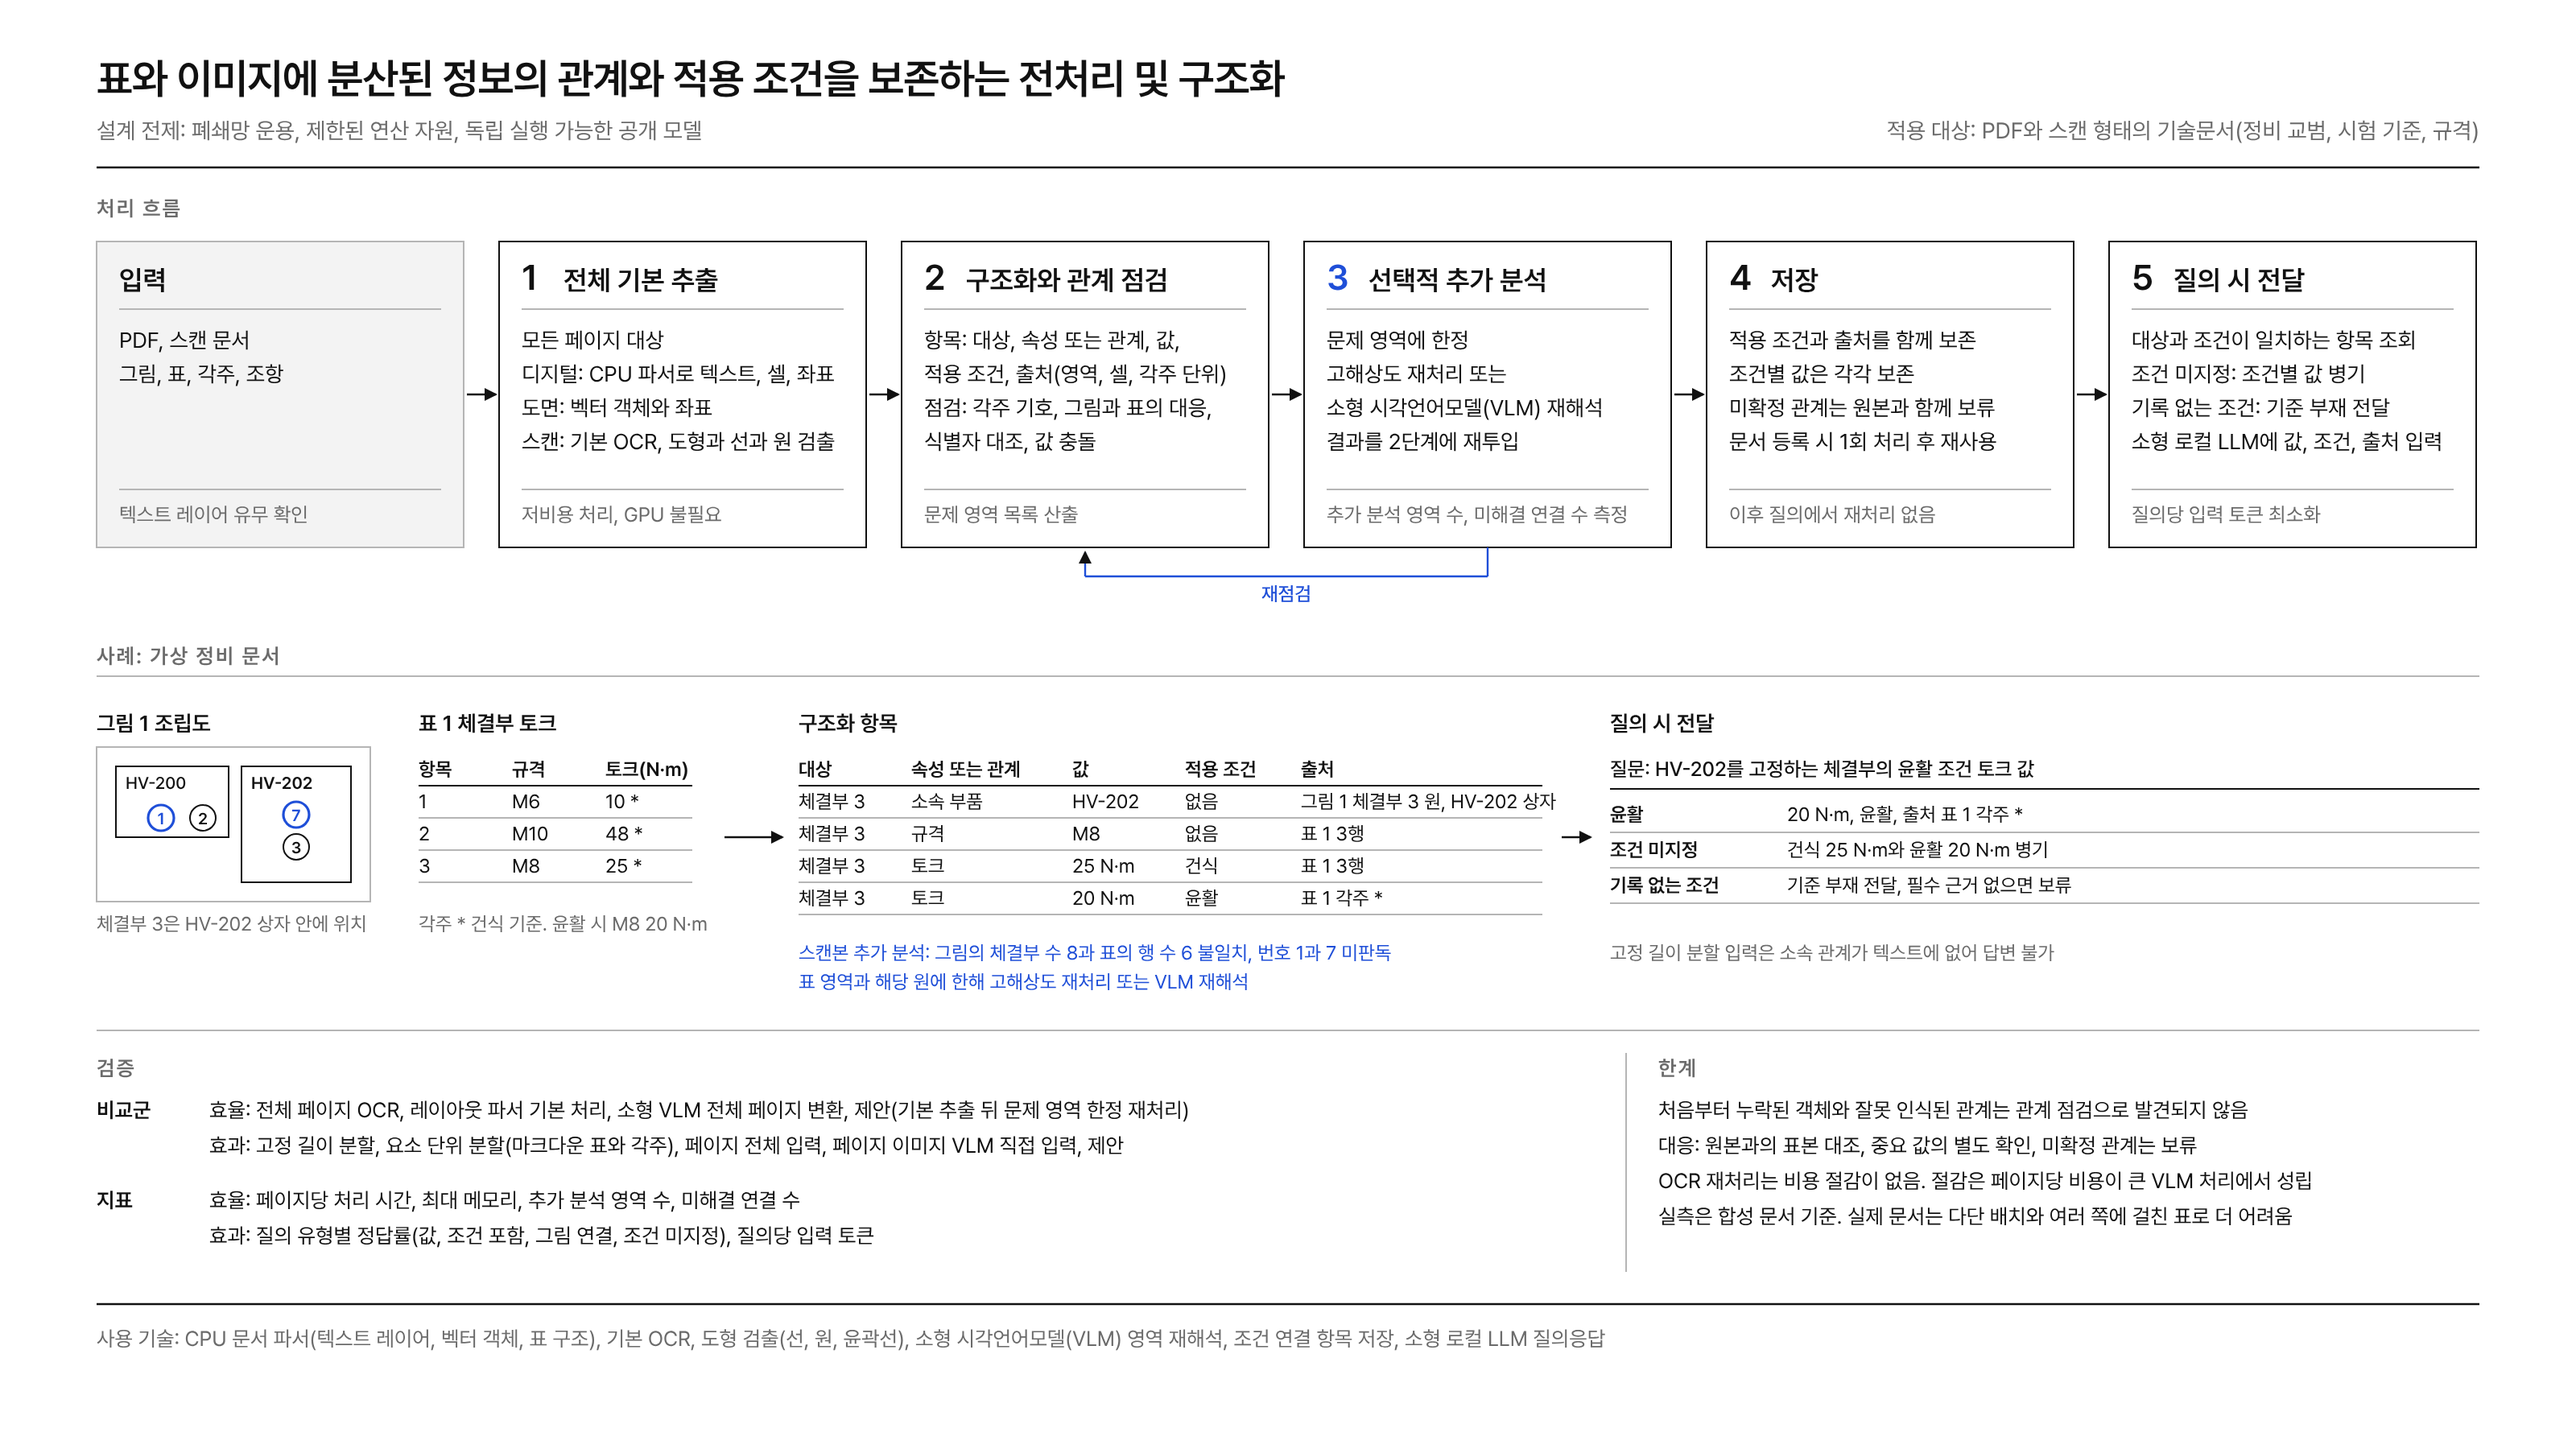
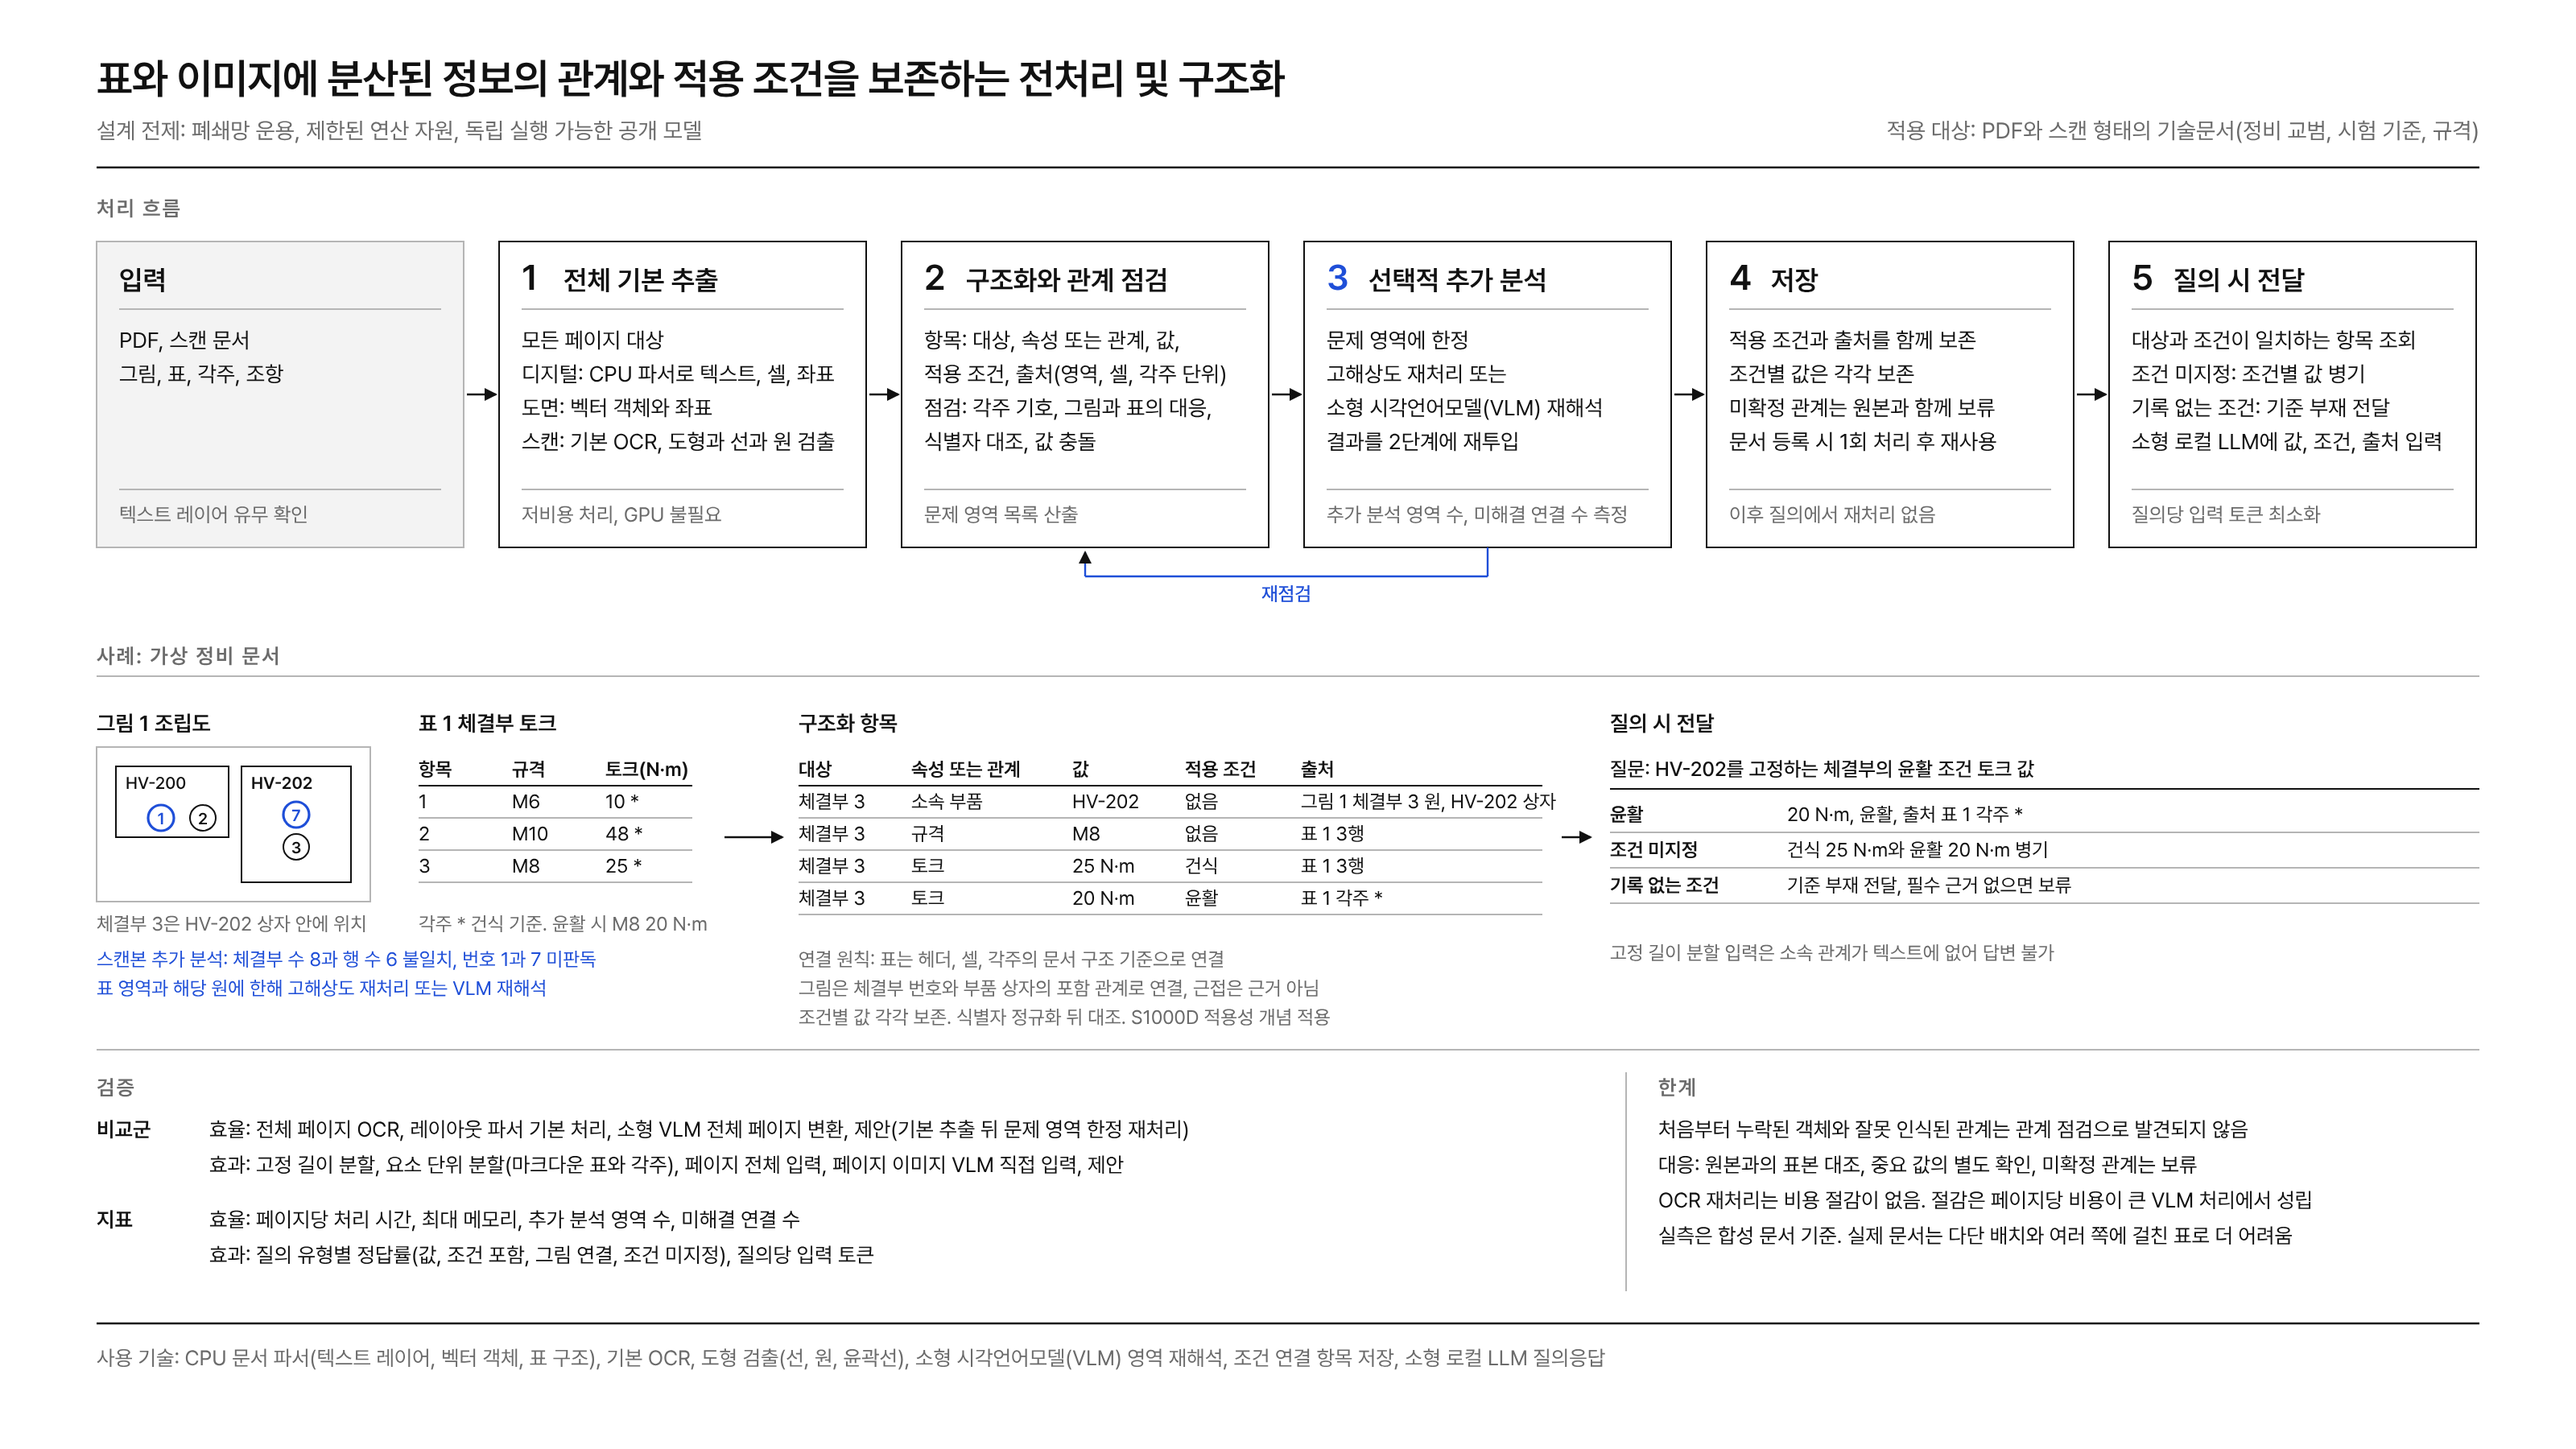
구상안 전체 그림: 연결 원칙 추가, 추가 분석 사례 위치 조정

diff --git a/docs/figures/make_fig.py b/docs/figures/make_fig.py
@@ -97,8 +97,11 @@ for r, row in enumerate([hdr] + recs):
     for c, cell in enumerate(row):
         t(xx, yy, cell, 12, 600 if r == 0 else 400); xx += widths[c]
     hline(ix, ix + sum(widths), yy + 6, LINE if r else INK)
-t(ix, gy + 156, "스캔본 추가 분석: 그림의 체결부 수 8과 표의 행 수 6 불일치, 번호 1과 7 미판독", 12, 400, ACC)
-t(ix, gy + 174, "표 영역과 해당 원에 한해 고해상도 재처리 또는 VLM 재해석", 12, 400, ACC)
+t(60, gy + 160, "스캔본 추가 분석: 체결부 수 8과 행 수 6 불일치, 번호 1과 7 미판독", 12, 400, ACC)
+t(60, gy + 178, "표 영역과 해당 원에 한해 고해상도 재처리 또는 VLM 재해석", 12, 400, ACC)
+lines(ix, gy + 160, ["연결 원칙: 표는 헤더, 셀, 각주의 문서 구조 기준으로 연결",
+                     "그림은 체결부 번호와 부품 상자의 포함 관계로 연결, 근접은 근거 아님",
+                     "조건별 값 각각 보존. 식별자 정규화 뒤 대조. S1000D 적용성 개념 적용"], 12, 18, GR)
 # 화살표 항목 -> 질의
 qx = 1000
 arrow(ix + sum(widths) + 12, gy + 80, qx - 12, gy + 80)
@@ -113,7 +116,7 @@ for r, (a, b) in enumerate(q):
 t(qx, gy + 156, "고정 길이 분할 입력은 소속 관계가 텍스트에 없어 답변 불가", 12, 400, GR)
 
 # ---------- 3단: 검증과 한계 ----------
-Y3 = 640
+Y3 = 652
 hline(60, 1540, Y3, LINE)
 t(60, Y3 + 28, "검증", 13, 600, GR, ls="1")
 t(60, Y3 + 54, "비교군", 13, 600); lines(130, Y3 + 54, ["효율: 전체 페이지 OCR, 레이아웃 파서 기본 처리, 소형 VLM 전체 페이지 변환, 제안(기본 추출 뒤 문제 영역 한정 재처리)",
